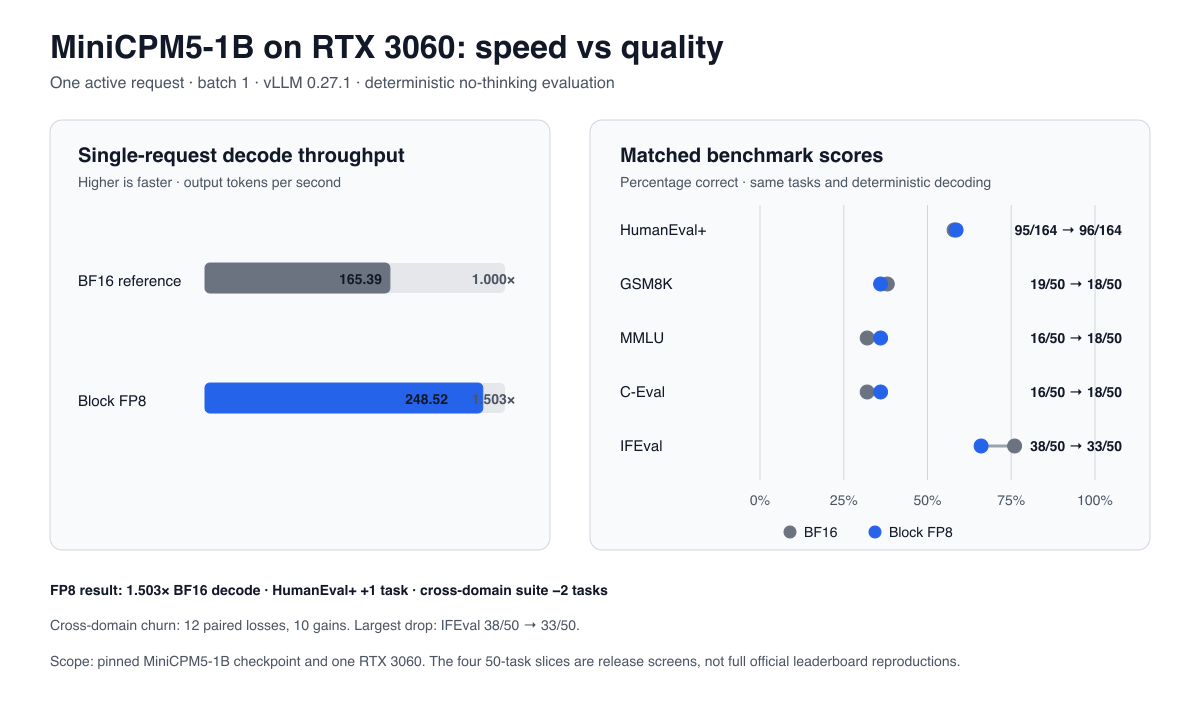
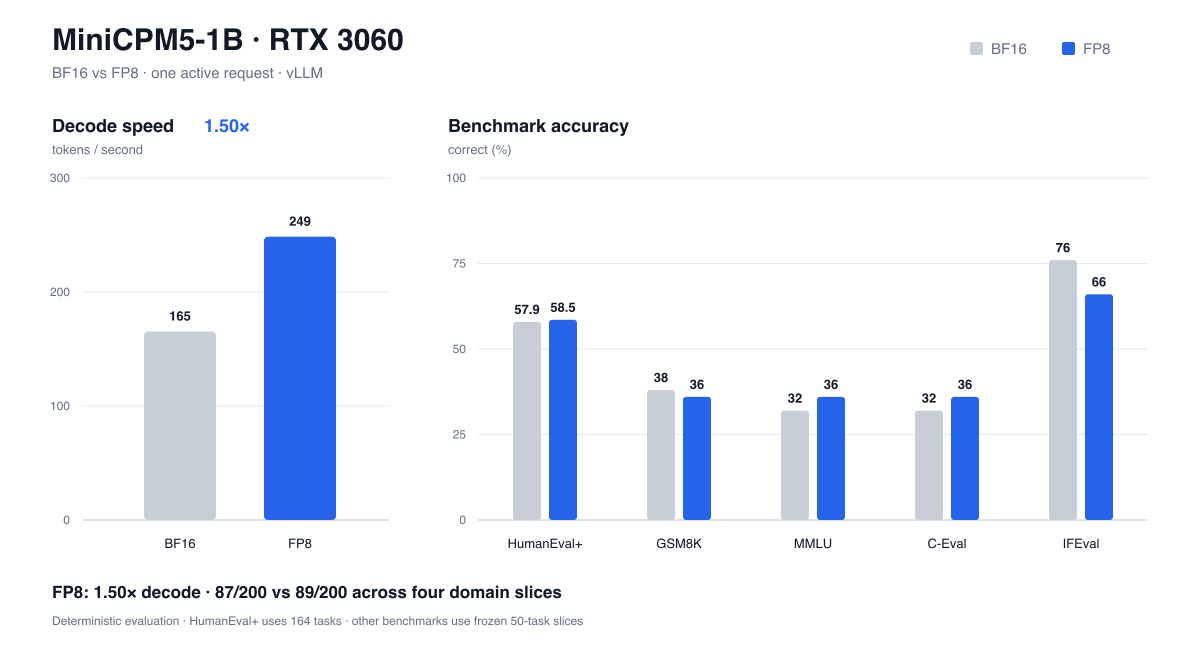
Simplify benchmark chart

diff --git a/scripts/render_benchmark_chart.py b/scripts/render_benchmark_chart.py
@@ -44,24 +44,28 @@ def _score(passed: int, total: int) -> float:
     return 100.0 * passed / total
 
 
+def _format_percent(value: float) -> str:
+    rounded = round(value)
+    if abs(value - rounded) < 0.05:
+        return str(rounded)
+    return f"{value:.1f}"
+
+
 def render_svg(decision: Mapping[str, Any]) -> str:
     performance = decision["performance"]
     quality = decision["quality"]
     mini = quality["release_intelligence_mini"]
     humaneval = quality["humanevalplus_full"]
+    baseline_speed = float(
+        performance["baseline"]["decode_tokens_per_second_median"]
+    )
+    candidate_speed = float(
+        performance["recommended"]["decode_tokens_per_second_median"]
+    )
+    speedup = float(performance["recommended"]["decode_speedup"])
     speed_rows = [
-        (
-            "BF16 reference",
-            float(performance["baseline"]["decode_tokens_per_second_median"]),
-            "bf16",
-            "1.000×",
-        ),
-        (
-            "Block FP8",
-            float(performance["recommended"]["decode_tokens_per_second_median"]),
-            "fp8",
-            f"{float(performance['recommended']['decode_speedup']):.3f}×",
-        ),
+        ("BF16", baseline_speed, "bf16"),
+        ("FP8", candidate_speed, "fp8"),
     ]
     quality_rows = [
         (
@@ -83,82 +87,104 @@ def render_svg(decision: Mapping[str, Any]) -> str:
         )
 
     parts = [
-        '<svg xmlns="http://www.w3.org/2000/svg" width="1200" height="720" viewBox="0 0 1200 720" role="img" aria-labelledby="title desc">',
+        '<svg xmlns="http://www.w3.org/2000/svg" width="1200" height="650" viewBox="0 0 1200 650" role="img" aria-labelledby="title desc" data-chart="vertical-bars">',
         '<title id="title">MiniCPM5-1B RTX 3060 speed and quality benchmark</title>',
-        '<desc id="desc">Block FP8 decodes 1.503 times faster than BF16. HumanEval Plus gains one task, while a frozen 200-task cross-domain suite loses two tasks overall, with the largest drop on IFEval.</desc>',
+        (
+            '<desc id="desc">BF16 and block FP8 compared with vertical bars. '
+            f'FP8 decodes {speedup:.3f} times faster. HumanEval Plus scores '
+            f'{humaneval["reference_passed"]} versus {humaneval["candidate_passed"]} '
+            f'of 164; the frozen cross-domain suite scores {mini["reference_passed"]} '
+            f'versus {mini["candidate_passed"]} of 200. The four 50-task slices '
+            'are release screens, not full official leaderboard reproductions.</desc>'
+        ),
         "<style>",
-        ":root{color-scheme:light dark}",
-        ".bg{fill:#ffffff}.panel{fill:#f8fafc;stroke:#d1d5db}.text{fill:#111827}.muted{fill:#4b5563}.grid{stroke:#d1d5db}.bf16{fill:#6b7280;stroke:#6b7280}.fp8{fill:#2563eb;stroke:#2563eb}.track{fill:#e5e7eb}.link{stroke:#9ca3af}",
-        "text{font-family:-apple-system,BlinkMacSystemFont,'Segoe UI',sans-serif;font-weight:400}.title{font-size:32px;font-weight:600}.subtitle{font-size:16px}.panel-title{font-size:20px;font-weight:600}.label{font-size:15px}.value{font-size:14px;font-weight:600}.note{font-size:14px}",
-        "@media(prefers-color-scheme:dark){.bg{fill:#0b0f17}.panel{fill:#111827;stroke:#374151}.text{fill:#f3f4f6}.muted{fill:#cbd5e1}.grid{stroke:#374151}.bf16{fill:#9ca3af;stroke:#9ca3af}.fp8{fill:#60a5fa;stroke:#60a5fa}.track{fill:#273244}.link{stroke:#6b7280}}",
+        ".bg{fill:#fff}.text{fill:#111827}.muted{fill:#667085}.grid{stroke:#e7eaf0;stroke-width:1}.axis{stroke:#cfd4dc;stroke-width:1}.bf16{fill:#c8ced8}.fp8{fill:#2563eb}",
+        "text{font-family:-apple-system,BlinkMacSystemFont,'Segoe UI',sans-serif}.title{font-size:30px;font-weight:650}.subtitle{font-size:15px}.section{font-size:18px;font-weight:650}.unit{font-size:13px}.tick{font-size:12px}.category{font-size:13px;font-weight:500}.value{font-size:13px;font-weight:650}.summary{font-size:17px;font-weight:650}.footnote{font-size:12px}",
         "</style>",
-        '<rect class="bg" width="1200" height="720"/>',
-        '<text class="text title" x="50" y="58">MiniCPM5-1B on RTX 3060: speed vs quality</text>',
-        '<text class="muted subtitle" x="50" y="88">One active request · batch 1 · vLLM 0.27.1 · deterministic no-thinking evaluation</text>',
-        '<rect class="panel" x="50" y="120" width="500" height="430" rx="12"/>',
-        '<rect class="panel" x="590" y="120" width="560" height="430" rx="12"/>',
-        '<text class="text panel-title" x="78" y="162">Single-request decode throughput</text>',
-        '<text class="muted note" x="78" y="187">Higher is faster · output tokens per second</text>',
+        '<rect class="bg" width="1200" height="650"/>',
+        '<text class="text title" x="52" y="50">MiniCPM5-1B · RTX 3060</text>',
+        '<text class="muted subtitle" x="52" y="78">BF16 vs FP8 · one active request · vLLM</text>',
+        '<rect class="bf16" x="970" y="42" width="13" height="13" rx="2"/>',
+        '<text class="muted subtitle" x="991" y="54">BF16</text>',
+        '<rect class="fp8" x="1062" y="42" width="13" height="13" rx="2"/>',
+        '<text class="muted subtitle" x="1083" y="54">FP8</text>',
+        '<text class="text section" x="52" y="132">Decode speed</text>',
+        f'<text class="fp8-label section" x="204" y="132" fill="#2563eb">{speedup:.2f}×</text>',
+        '<text class="muted unit" x="52" y="154">tokens / second</text>',
+        '<text class="text section" x="448" y="132">Benchmark accuracy</text>',
+        '<text class="muted unit" x="448" y="154">correct (%)</text>',
     ]
 
-    bar_start = 205.0
-    bar_width = 300.0
-    max_speed = max(value for _, value, _, _ in speed_rows) * 1.08
-    for index, (label, value, css_class, ratio) in enumerate(speed_rows):
-        y = 280 + index * 120
-        width = value / max_speed * bar_width
-        value_x = min(bar_start + width - 8.0, 448.0)
+    chart_top = 178.0
+    chart_bottom = 520.0
+    chart_height = chart_bottom - chart_top
+
+    speed_left = 82.0
+    speed_right = 390.0
+    speed_max = 300.0
+    for tick in (0, 100, 200, 300):
+        y = chart_bottom - tick / speed_max * chart_height
         parts.extend(
             [
-                f'<text class="text label" x="78" y="{y + 6}">{html.escape(label)}</text>',
-                f'<rect class="track" x="{bar_start:.0f}" y="{y - 17}" width="{bar_width:.0f}" height="30" rx="5"/>',
-                f'<rect class="{css_class}" x="{bar_start:.0f}" y="{y - 17}" width="{width:.1f}" height="30" rx="5"/>',
-                f'<text class="text value" x="{value_x:.1f}" y="{y + 4}" text-anchor="end">{value:.2f}</text>',
-                f'<text class="muted value" x="515" y="{y + 4}" text-anchor="end">{ratio}</text>',
+                f'<line class="grid" x1="{speed_left:.0f}" y1="{y:.1f}" x2="{speed_right:.0f}" y2="{y:.1f}"/>',
+                f'<text class="muted tick" x="{speed_left - 12:.0f}" y="{y + 4:.1f}" text-anchor="end">{tick}</text>',
             ]
         )
-
-    parts.extend(
-        [
-            '<text class="text panel-title" x="620" y="162">Matched benchmark scores</text>',
-            '<text class="muted note" x="620" y="187">Percentage correct · same tasks and deterministic decoding</text>',
-        ]
+    parts.append(
+        f'<line class="axis" x1="{speed_left:.0f}" y1="{chart_bottom:.0f}" x2="{speed_right:.0f}" y2="{chart_bottom:.0f}"/>'
     )
-    axis_start = 760.0
-    axis_width = 335.0
-    for tick in (0, 25, 50, 75, 100):
-        x = axis_start + tick / 100.0 * axis_width
+    speed_centers = (180.0, 300.0)
+    speed_bar_width = 72.0
+    for center, (label, value, css_class) in zip(speed_centers, speed_rows):
+        bar_height = min(value / speed_max, 1.0) * chart_height
+        y = chart_bottom - bar_height
         parts.extend(
             [
-                f'<line class="grid" x1="{x:.1f}" y1="205" x2="{x:.1f}" y2="480"/>',
-                f'<text class="muted note" x="{x:.1f}" y="505" text-anchor="middle">{tick}%</text>',
+                f'<rect class="{css_class}" x="{center - speed_bar_width / 2:.1f}" y="{y:.1f}" width="{speed_bar_width:.0f}" height="{bar_height:.1f}" rx="4"/>',
+                f'<text class="text value" x="{center:.0f}" y="{y - 11:.1f}" text-anchor="middle">{value:.0f}</text>',
+                f'<text class="text category" x="{center:.0f}" y="548" text-anchor="middle">{html.escape(label)}</text>',
             ]
         )
 
-    for index, (label, reference, candidate, total) in enumerate(quality_rows):
-        y = 230 + index * 54
-        ref_score = _score(reference, total)
-        cand_score = _score(candidate, total)
-        ref_x = axis_start + ref_score / 100.0 * axis_width
-        cand_x = axis_start + cand_score / 100.0 * axis_width
-        left_x, right_x = sorted((ref_x, cand_x))
+    quality_left = 478.0
+    quality_right = 1148.0
+    for tick in (0, 25, 50, 75, 100):
+        y = chart_bottom - tick / 100.0 * chart_height
         parts.extend(
             [
-                f'<text class="text label" x="620" y="{y + 5}">{html.escape(label)}</text>',
-                f'<line class="link" x1="{left_x:.1f}" y1="{y}" x2="{right_x:.1f}" y2="{y}" stroke-width="3"/>',
-                f'<circle class="bf16" cx="{ref_x:.1f}" cy="{y}" r="7"/>',
-                f'<circle class="fp8" cx="{cand_x:.1f}" cy="{y}" r="7"/>',
-                f'<text class="text value" x="1122" y="{y + 5}" text-anchor="end">{reference}/{total} → {candidate}/{total}</text>',
+                f'<line class="grid" x1="{quality_left:.0f}" y1="{y:.1f}" x2="{quality_right:.0f}" y2="{y:.1f}"/>',
+                f'<text class="muted tick" x="{quality_left - 12:.0f}" y="{y + 4:.1f}" text-anchor="end">{tick}</text>',
             ]
+        )
+    parts.append(
+        f'<line class="axis" x1="{quality_left:.0f}" y1="{chart_bottom:.0f}" x2="{quality_right:.0f}" y2="{chart_bottom:.0f}"/>'
+    )
+
+    group_width = (quality_right - quality_left) / len(quality_rows)
+    quality_bar_width = 28.0
+    for index, (label, reference, candidate, total) in enumerate(quality_rows):
+        center = quality_left + group_width * (index + 0.5)
+        scores = (
+            (_score(reference, total), "bf16", center - 18.0),
+            (_score(candidate, total), "fp8", center + 18.0),
+        )
+        for score, css_class, bar_center in scores:
+            bar_height = score / 100.0 * chart_height
+            y = chart_bottom - bar_height
+            parts.extend(
+                [
+                    f'<rect class="{css_class}" x="{bar_center - quality_bar_width / 2:.1f}" y="{y:.1f}" width="{quality_bar_width:.0f}" height="{bar_height:.1f}" rx="3"/>',
+                    f'<text class="text value" x="{bar_center:.1f}" y="{y - 8:.1f}" text-anchor="middle">{_format_percent(score)}</text>',
+                ]
+            )
+        parts.append(
+            f'<text class="text category" x="{center:.1f}" y="548" text-anchor="middle">{html.escape(label)}</text>'
         )
 
     parts.extend(
         [
-            '<circle class="bf16" cx="790" cy="532" r="6"/><text class="text note" x="804" y="537">BF16</text>',
-            '<circle class="fp8" cx="875" cy="532" r="6"/><text class="text note" x="889" y="537">Block FP8</text>',
-            '<text class="text value" x="50" y="595">FP8 result: 1.503× BF16 decode · HumanEval+ +1 task · cross-domain suite −2 tasks</text>',
-            f'<text class="muted note" x="50" y="630">Cross-domain churn: {mini["paired_loss_count"]} paired losses, {mini["paired_gain_count"]} gains. Largest drop: IFEval 38/50 → 33/50.</text>',
-            '<text class="muted note" x="50" y="666">Scope: pinned MiniCPM5-1B checkpoint and one RTX 3060. The four 50-task slices are release screens, not full official leaderboard reproductions.</text>',
+            f'<text class="text summary" x="52" y="598">FP8: {speedup:.2f}× decode · {mini["candidate_passed"]}/200 vs {mini["reference_passed"]}/200 across four domain slices</text>',
+            '<text class="muted footnote" x="52" y="625">Deterministic evaluation · HumanEval+ uses 164 tasks · other benchmarks use frozen 50-task slices</text>',
             "</svg>",
         ]
     )

diff --git a/tests/test_render_benchmark_chart.py b/tests/test_render_benchmark_chart.py
@@ -13,10 +13,12 @@ class BenchmarkChartTests(unittest.TestCase):
         decision = load_decision(ROOT / "results/release-summary.json")
         svg = render_svg(decision)
         ET.fromstring(svg)
-        self.assertIn("248.52", svg)
-        self.assertIn("1.503×", svg)
-        self.assertIn("95/164 → 96/164", svg)
-        self.assertIn("38/50 → 33/50", svg)
+        self.assertIn('data-chart="vertical-bars"', svg)
+        self.assertIn("249", svg)
+        self.assertIn("1.50×", svg)
+        self.assertIn("58.5", svg)
+        self.assertIn("66", svg)
+        self.assertIn("87/200 vs 89/200", svg)
         self.assertIn("not full official leaderboard reproductions", svg)
 
 
